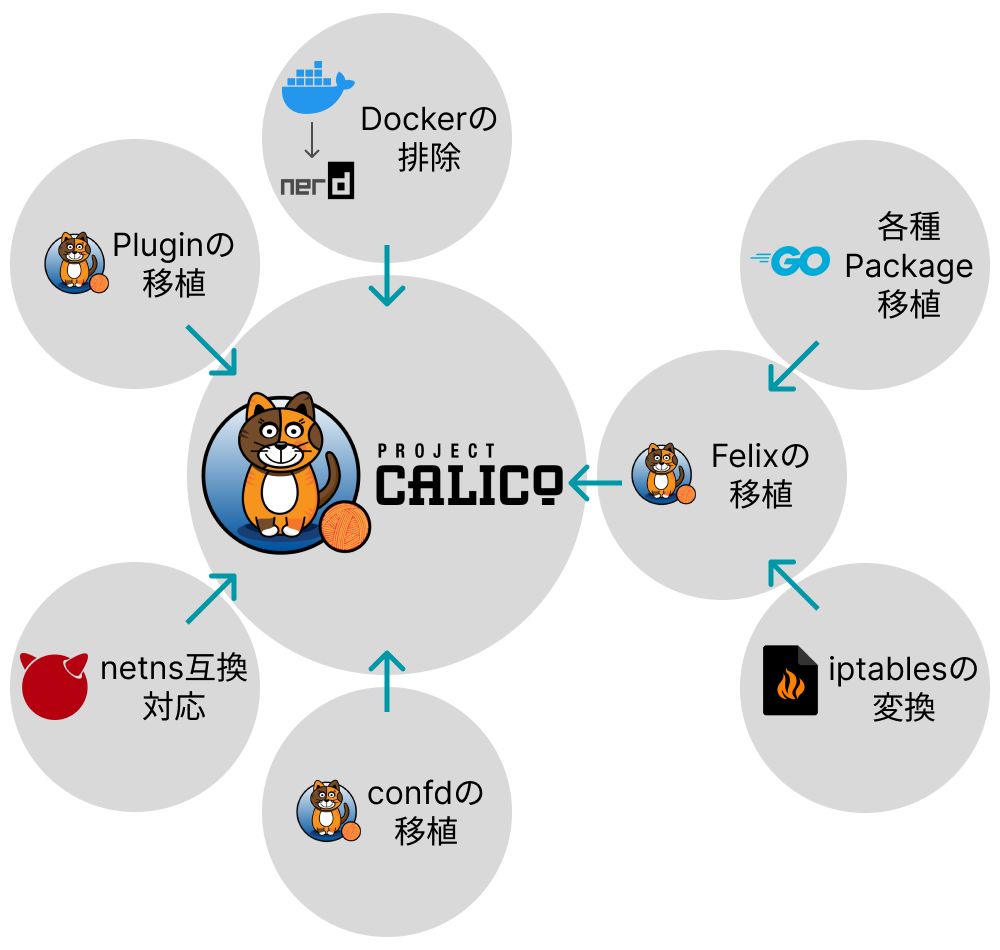
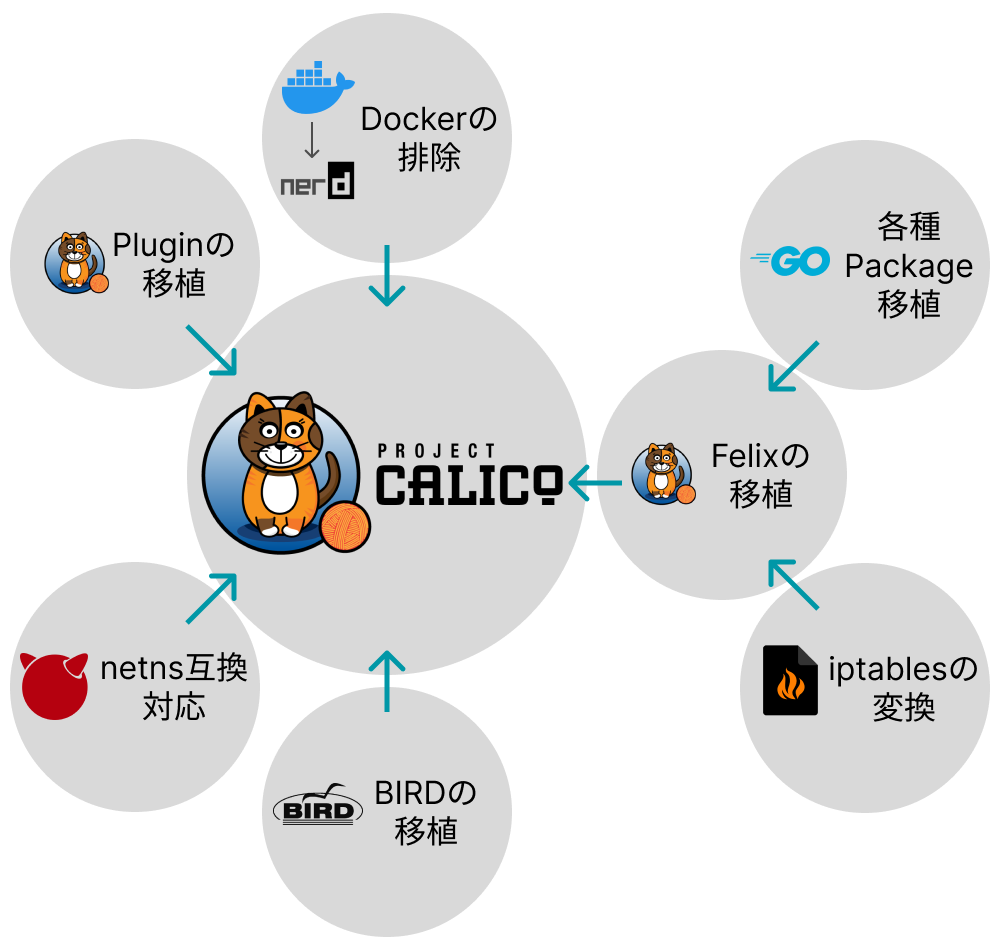
Add implement in calico.html.

Changed region(s): [[0.279, 0.8242, 0.496, 0.8853]]

diff --git a/calico.html b/calico.html
@@ -69,7 +69,7 @@
             </p>
 			<ul>
 			  <li>
-			    <a href="https://soumasakaguchi.github.io/portfolio/runj.html">Network Namespace互換機能の実現</a>では、単一ノード上のコンテナ間通信を実現
+			    <a href="https://soumasakaguchi.github.io/portfolio/runj.html">Network Namespace互換機能の実現</a>では、単一ノード上のコンテナ間通信を実現したが...
 			    <ul>
 				  <li>vnetとjailの入れ子構造を利用したNetwork Nameespace互換機能</li>
 				  <li>CNIコアプラグインの利用</li>
@@ -87,9 +87,41 @@
             <p>
               <img src="img/calico-imp.png" alt="">
             </p>
-            <p>
-			  実装が入ります。実装が入ります。
-            </p>
+			<ul>
+			  <li>
+			    Calicoを用いたコンテナネットワーキングの構築をFreeBSDで行うために以下の実装が必要
+				<ul>
+				  <li>Calico Pluginの移植</li>
+				  <li>Felixの移植</li>
+				  <li>Calico-BIRDの移植</li>
+				  <li>Dockerの排除</li>
+				  <li>Network Namespace互換機能への対応</li>
+				</ul>
+			  </li>
+			</ul>
+			<h4>Calico Pluginの移植</h4>
+			<p>
+			  高レベルコンテナランタイムやコンテナオーケストレーターから実行するバイナリとなるCNIプラグインの移植が必要となる。仮想インタフェースの作成やNetwork Namespace互換への接続を行うcalicoバイナリと、IPアドレスの割当を行うcalico-ipamバイナリそれぞれを移植する。実装では、LinuxとFreeBSDのネットワークスタックの差異を吸収する工夫が必要となる。
+			</p>
+			<h4>Felixの移植</h4>
+			<p>
+			  Calicoの機能の中枢をになるFelixの移植が必要となる。Felixはiptablesの制御を担うが、FreeBSDではiptablesが存在しないため、iptablesと同等の機能を持つpfというファイアウォールを利用する。そのためiptablesのルールをpfのルールに変換する機構を実装する。
+			</p>
+			<p>
+			  また、Felixは、NetlinkやNetwork Namespaceの操作をGo言語から行うことから、netlink packageやnetns packeageのFreeBSD移植が必要となる。これらはLinuxの機能に依存している箇所もあるため、FreeBSD用のパッケージを再実装しなければならない。現在はnetlink packageの機能を絞った再実装と、netns packageをvnetの操作に変換したvnet packageの実装を行っている。
+			</p>
+			<h4>Calico-BIRDの移植</h4>
+			<p>
+			  BIRDはBGPの通信を行うために用いられ、FreeBSDでも利用可能である。しかしCalico用に一部改変したBIRDであるCalico-BIRDはFreeBSDでは利用できない。そこで、FreeBSDで利用できるBIRDを参考に、Calico-BIRDの移植を行った。すでにFreeBSDでの動作を確認できているため、他の機能コンポーネントが完成次第、全体の動作を確認する。
+			</p>
+			<h4>Dockerの排除</h4>
+			<p>
+			  Calicoの機能コンポーネントをまとめたCalico-nodeを実行するためには、Dockerを利用する必要がある。しかしFreeBSDでは、Dockerの利用が難しいため、正常に動作する、かつDocker互換であるnerdctlを用いるように改変を行った。すでにFreeBSDでの動作を確認できているため、他の機能コンポーネントが完成次第、全体の動作を確認する。
+			</p>
+			<h4>Network Namespace互換機能への対応</h4>
+			<p>
+			  <a href="https://soumasakaguchi.github.io/portfolio/runj.html">Network Namespace互換機能の実現</a>で実現した、Network Namespace互換を利用するような実装を行う。これは、Calico PluginやFelixなどの機能コンポーネントの実装に影響してくるため、vnet packageを利用することを想定している。
+			</p>
 			<h3>頑張った点</h3>
 			<p>
 			  頑張った点が入ります。頑張った点が入ります。
